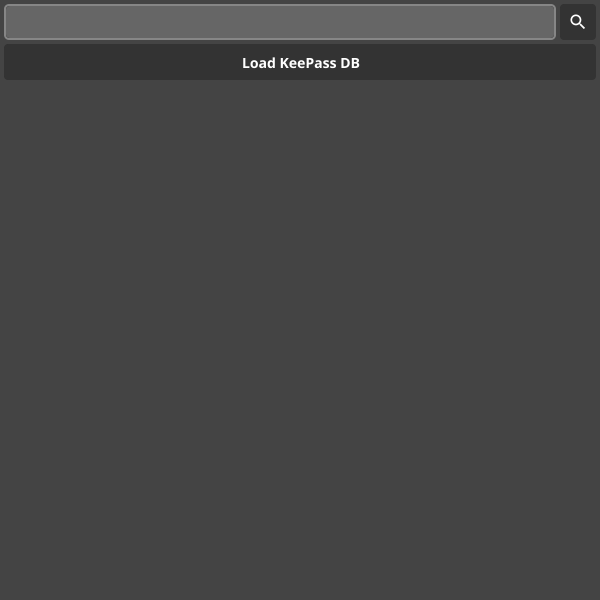
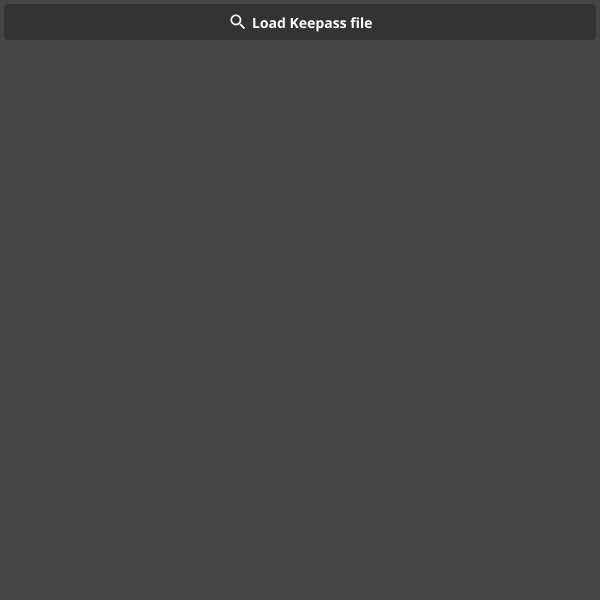
Simplify flow by having a single button to load .kdbx files

Changed region(s): [[0.0, 0.0, 0.93, 0.12], [0.96, 0.03, 0.99, 0.06]]

diff --git a/internal/ui/masterpassworddialog.go b/internal/ui/masterpassworddialog.go
@@ -12,9 +12,10 @@ import (
 type MasterPasswordDialog struct {
 	dbPathAndPassword binding.Untyped
 	content           binding.Bytes
-	path              binding.String
 	dialog            *dialog.FormDialog
 	passwordEntry     *widget.Entry
+	formItems         []*widget.FormItem
+	parent            fyne.Window
 }
 
 type DBPathAndPassword struct {
@@ -22,7 +23,7 @@ type DBPathAndPassword struct {
 	Password string
 }
 
-func CreateDialog(path binding.String, contentInBytes *[]byte, parent fyne.Window) MasterPasswordDialog {
+func CreateDialog(parent fyne.Window) MasterPasswordDialog {
 	formItems := []*widget.FormItem{}
 	passwordEntry := widget.NewPasswordEntry()
 	passwordEntry.SetPlaceHolder("KeyPass DB password")
@@ -30,18 +31,36 @@ func CreateDialog(path binding.String, contentInBytes *[]byte, parent fyne.Windo
 	dbPathAndPassword := binding.NewUntyped()
 	content := binding.NewBytes()
 
-	dialog := dialog.NewForm("Enter master password", "Confirm", "Cancel", formItems, func(valid bool) {
+	return MasterPasswordDialog{
+		dbPathAndPassword: dbPathAndPassword,
+		content:           content,
+		dialog:            nil,
+		passwordEntry:     passwordEntry,
+		formItems:         formItems,
+		parent:            parent,
+	}
+
+}
+
+func (m *MasterPasswordDialog) AddListener(l binding.DataListener) {
+	m.dbPathAndPassword.AddListener(l)
+}
+
+func (m *MasterPasswordDialog) ShowDialog(path binding.URI, contentInBytes *[]byte) {
+	m.dialog = dialog.NewForm("Enter master password", "Confirm", "Cancel", m.formItems, func(valid bool) {
 		if valid {
-			err := content.Set(*contentInBytes)
+			err := m.content.Set(*contentInBytes)
 			if err != nil {
 				slog.Error("Error updating DB bytes", err)
 			}
-			if passwordEntry.Text != "" {
-				path, _ := path.Get()
-				err := dbPathAndPassword.Set(DBPathAndPassword{
-					Path:     path,
-					Password: passwordEntry.Text,
-				})
+			if m.passwordEntry.Text != "" {
+				pathURI, err := path.Get()
+				if err == nil {
+					err = m.dbPathAndPassword.Set(DBPathAndPassword{
+						Path:     pathURI.Path(),
+						Password: m.passwordEntry.Text,
+					})
+				}
 				if err != nil {
 					slog.Error("Error updating Path and Password", err)
 
@@ -53,23 +72,8 @@ func CreateDialog(path binding.String, contentInBytes *[]byte, parent fyne.Windo
 		} else {
 			slog.Error("invalid password")
 		}
-	}, parent)
-	dialog.Resize(fyne.NewSize(400, 100))
+	}, m.parent)
 
-	return MasterPasswordDialog{
-		path:              path,
-		dbPathAndPassword: dbPathAndPassword,
-		content:           content,
-		dialog:            dialog,
-		passwordEntry:     passwordEntry,
-	}
-
-}
-
-func (m MasterPasswordDialog) AddListener(l binding.DataListener) {
-	m.dbPathAndPassword.AddListener(l)
-}
-
-func (m MasterPasswordDialog) ShowDialog() {
+	m.dialog.Resize(fyne.NewSize(400, 100))
 	m.dialog.Show()
 }

diff --git a/internal/ui/masterpassworddialog_test.go b/internal/ui/masterpassworddialog_test.go
@@ -14,9 +14,9 @@ func TestMasterPasswordDialog_Render(t *testing.T) {
 	w := test.NewWindow(container.NewWithoutLayout())
 	path := binding.NewString()
 	contentInBytes := make([]byte, 5)
-	masterPasswordDialog := CreateDialog(path, &contentInBytes, w)
+	masterPasswordDialog := CreateDialog(w)
 	w.Resize(fyne.NewSize(600, 600))
-	masterPasswordDialog.ShowDialog()
+	masterPasswordDialog.ShowDialog(binding.StringToURI(path), &contentInBytes)
 
 	test.AssertImageMatches(t, "masterPasswordDialog_Show.png", w.Canvas().Capture())
 }
@@ -24,14 +24,14 @@ func TestMasterPasswordDialog_Render(t *testing.T) {
 func TestMasterPasswordDialog_fillIn_And_Submit(t *testing.T) {
 	w := test.NewWindow(container.NewWithoutLayout())
 	path := binding.NewString()
-	err := path.Set("fakeKeypassDBFilePath")
+	err := path.Set("file://fakeKeypassDBFilePath")
 	if err != nil {
 		t.Error()
 	}
 	contentInBytes := make([]byte, 5)
-	masterPasswordDialog := CreateDialog(path, &contentInBytes, w)
+	masterPasswordDialog := CreateDialog(w)
 	w.Resize(fyne.NewSize(600, 600))
-	masterPasswordDialog.ShowDialog()
+	masterPasswordDialog.ShowDialog(binding.StringToURI(path), &contentInBytes)
 
 	test.Type(masterPasswordDialog.passwordEntry, "thePassword")
 
@@ -58,14 +58,14 @@ func TestMasterPasswordDialog_fillIn_And_Submit(t *testing.T) {
 func TestMasterPasswordDialog_Calls_Listener(t *testing.T) {
 	w := test.NewWindow(container.NewWithoutLayout())
 	path := binding.NewString()
-	err := path.Set("fakeKeypassDBFilePath")
+	err := path.Set("file://fakeKeypassDBFilePath")
 	if err != nil {
 		t.Error()
 	}
 	contentInBytes := make([]byte, 5)
-	masterPasswordDialog := CreateDialog(path, &contentInBytes, w)
+	masterPasswordDialog := CreateDialog(w)
 	w.Resize(fyne.NewSize(600, 600))
-	masterPasswordDialog.ShowDialog()
+	masterPasswordDialog.ShowDialog(binding.StringToURI(path), &contentInBytes)
 
 	test.Type(masterPasswordDialog.passwordEntry, "thePassword")
 

diff --git a/internal/ui/maincontent.go b/internal/ui/maincontent.go
@@ -5,7 +5,6 @@ import (
 
 	"fyne.io/fyne/v2"
 	"fyne.io/fyne/v2/container"
-	"fyne.io/fyne/v2/widget"
 )
 
 type MainContent struct {
@@ -13,25 +12,23 @@ type MainContent struct {
 	MasterPasswordDialog MasterPasswordDialog
 	KeyAccordion         KeyAccordion
 	detailedView         DetailedView
-	LoadDBButton         *widget.Button
 }
 
 func (m *MainContent) MakeUI() fyne.CanvasObject {
 	return container.NewBorder(
-		container.NewVBox(m.DBFileEntry.Container, m.LoadDBButton),
+		container.NewVBox(m.DBFileEntry.Container),
 		m.detailedView.container, nil, nil, m.KeyAccordion.accordionWidget,
 	)
 
 }
 
 func CreateMainContent(parent fyne.Window, stor fyne.Storage) MainContent {
-	dbFileEntry := CreateDBFileEntry(parent)
-	masterPasswordDialog := CreateDialog(dbFileEntry.PathBinding, dbFileEntry.ContentInBytes, parent)
+	masterPasswordDialog := CreateDialog(parent)
+	dbFileEntry := CreateDBFileEntry(&masterPasswordDialog, parent)
 	detailedView := CreateDetailedView()
 	keyAccordion := CreatekeyAccordion(masterPasswordDialog.dbPathAndPassword, masterPasswordDialog.content, detailedView, parent, func(contentInBytes []byte, password string) keepass.SecretReader {
 		return keepass.CipheredKeepassDB{ContentInBytes: contentInBytes, Password: password}
 	})
-	loadFileButton := CreateLoadDBButton(masterPasswordDialog)
 	masterPasswordDialog.AddListener(&keyAccordion)
 
 	return MainContent{
@@ -39,12 +36,5 @@ func CreateMainContent(parent fyne.Window, stor fyne.Storage) MainContent {
 		MasterPasswordDialog: masterPasswordDialog,
 		KeyAccordion:         keyAccordion,
 		detailedView:         *detailedView,
-		LoadDBButton:         loadFileButton,
 	}
-}
-
-func CreateLoadDBButton(masterPasswordDialog MasterPasswordDialog) *widget.Button {
-	return widget.NewButton("Load KeePass DB", func() {
-		masterPasswordDialog.ShowDialog()
-	})
 }

diff --git a/internal/ui/dbfileentry.go b/internal/ui/dbfileentry.go
@@ -15,40 +15,37 @@ import (
 
 type DBFileEntry struct {
 	Container      *fyne.Container
-	PathBinding    binding.String
-	ContentInBytes *[]byte
 	findFileButton *widget.Button
 	fileOpenDialog *dialog.FileDialog
 }
 
-func CreateDBFileEntry(parent fyne.Window) DBFileEntry {
+func CreateDBFileEntry(masterPasswordDialog *MasterPasswordDialog, parent fyne.Window) DBFileEntry {
 	var byteContent []byte
-	pathBinding := binding.NewString()
 
 	fileOpen := dialog.NewFileOpen(func(dir fyne.URIReadCloser, err error) {
 		if err == nil && dir != nil {
-			err = pathBinding.Set(dir.URI().Path())
+
+			fileURI := dir.URI()
+			byteContent, err = io.ReadAll(dir)
 			if err == nil {
-				byteContent, err = io.ReadAll(dir)
+				(*masterPasswordDialog).ShowDialog(binding.BindURI(&fileURI), &byteContent)
 			}
 			if err != nil {
-				slog.Error("Error setting path: %s", dir.URI().Path(), err)
+				slog.Error("Error setting path: %s", fileURI.Path(), err)
+			}
+
+			if err != nil {
+				slog.Error("Error setting path: %s", fileURI.Path(), err)
 			}
 		}
 	}, parent)
 	fileOpen.SetFilter(storage.NewExtensionFileFilter([]string{".kdbx"}))
-	findFileButton := widget.NewButtonWithIcon("", theme.SearchIcon(), func() {
+	findFileButton := widget.NewButtonWithIcon("Load Keepass file", theme.SearchIcon(), func() {
 		fileOpen.Show()
 	})
 
-	kdbxFilePathEntry := widget.NewEntryWithData(pathBinding)
-	kdbxFilePathEntry.Resize(fyne.NewSize(700, kdbxFilePathEntry.Size().Height))
-	kdbxFilePathEntry.PlaceHolder = "Path to db.kdbx"
-
 	return DBFileEntry{
-		Container:      container.NewBorder(nil, nil, nil, findFileButton, kdbxFilePathEntry),
-		PathBinding:    pathBinding,
-		ContentInBytes: &byteContent,
+		Container:      container.NewStack(findFileButton),
 		findFileButton: findFileButton,
 		fileOpenDialog: fileOpen,
 	}

diff --git a/internal/ui/dbfileentry_test.go b/internal/ui/dbfileentry_test.go
@@ -13,7 +13,7 @@ func TestCreateDBFileEntry(t *testing.T) {
 	mainContainer := container.NewVBox()
 	w := test.NewWindow(mainContainer)
 
-	dbFileEntry := CreateDBFileEntry(w)
+	dbFileEntry := CreateDBFileEntry(nil, w)
 
 	mainContainer.Add(dbFileEntry.Container)
 	w.Resize(fyne.NewSize(600, 600))
